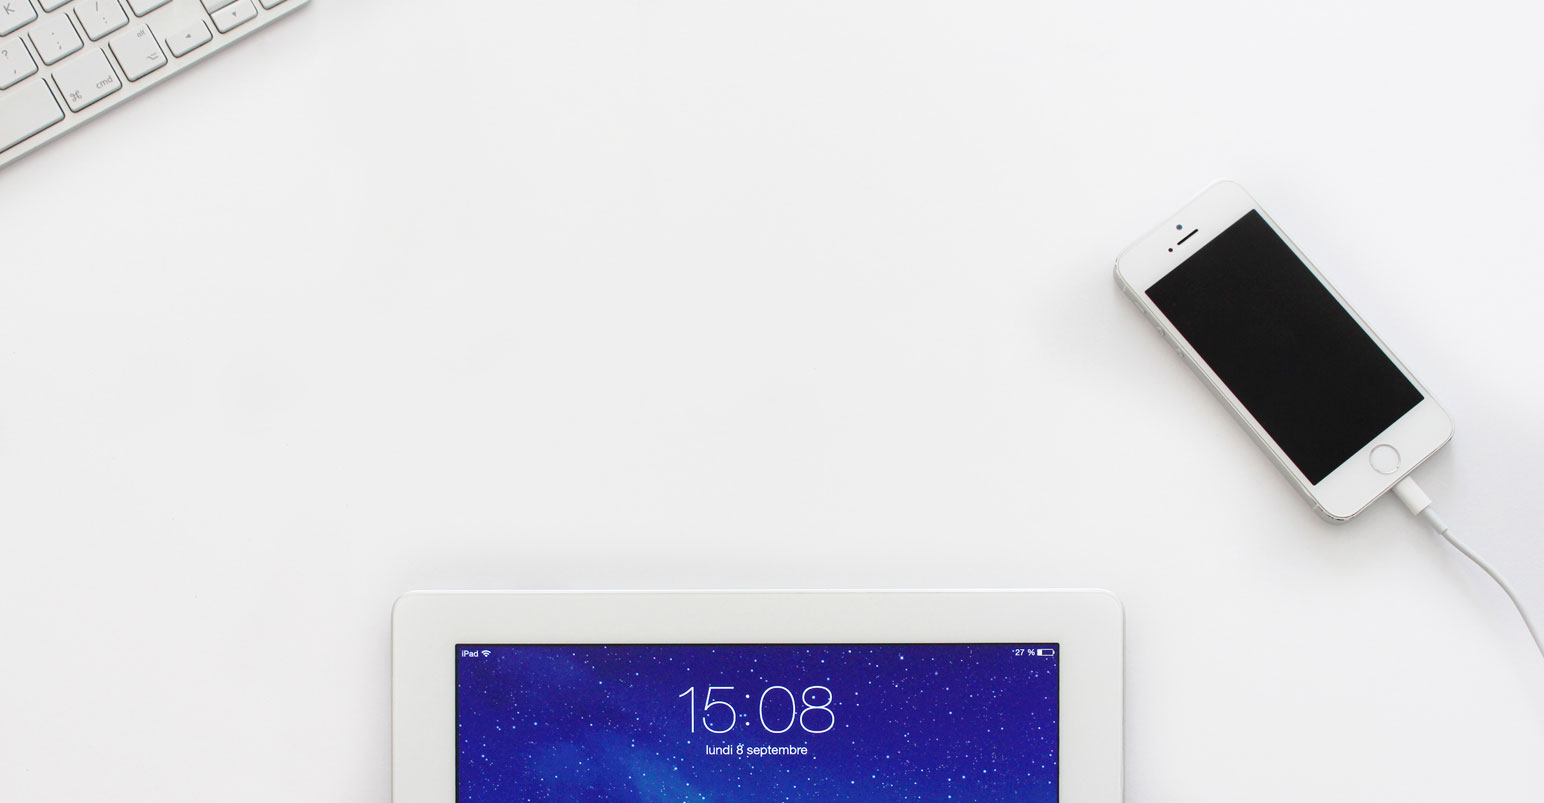
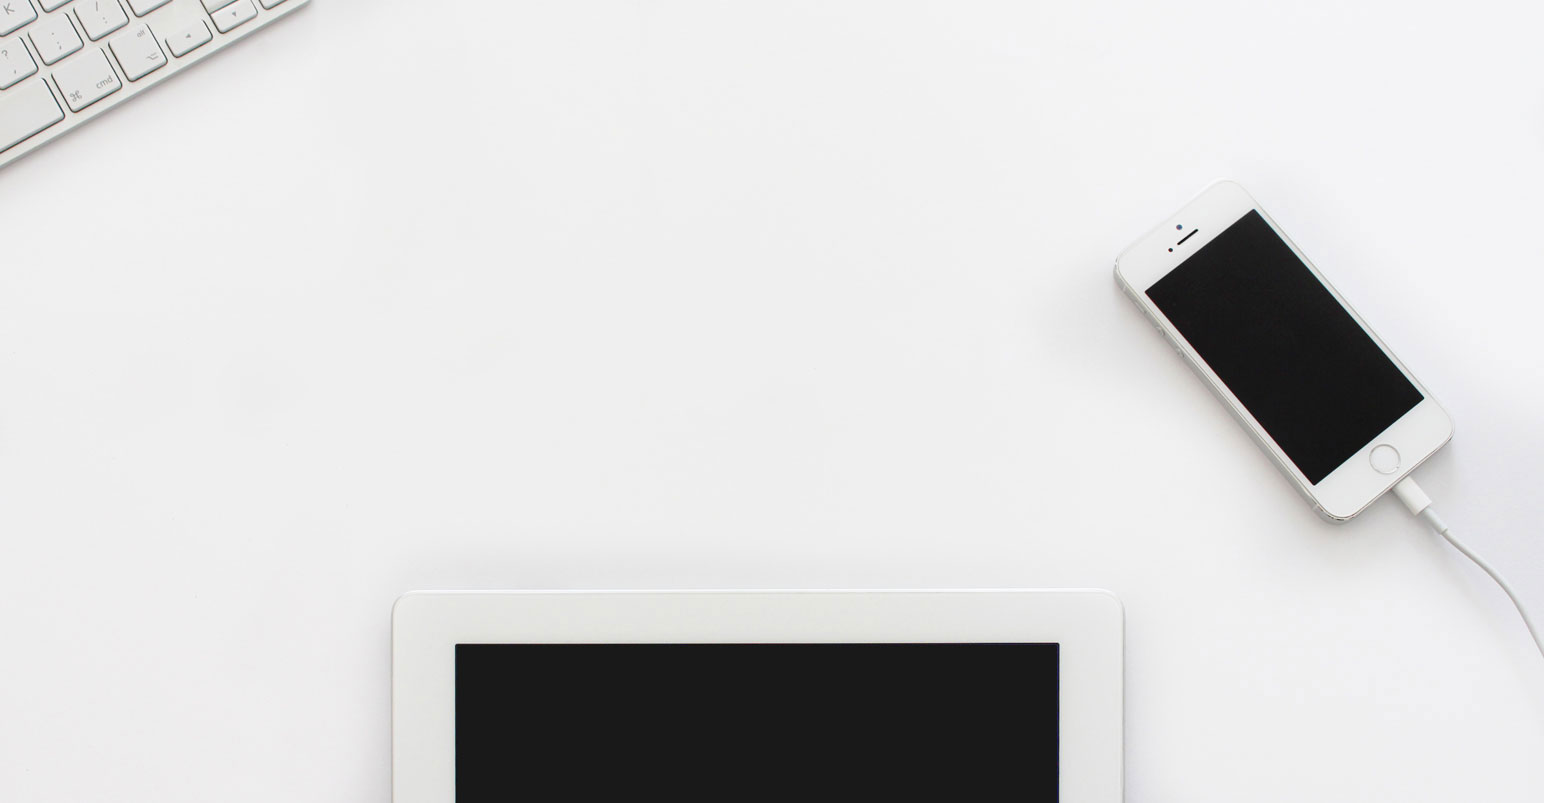
fix hero bg scaling on breakpoints
- moved hamburger to top right
- changed hero image

Changed region(s): [[0.2798, 0.7783, 0.6839, 1.0]]

diff --git a/css/style.css b/css/style.css
@@ -117,6 +117,7 @@ b, strong {
 
 h1 {
     font-family: 'Montserrat', sans-serif;
+    font: 700 68px/110% Montserrat;
     font-weight: bold;
     font-size: 40px;
     line-height: 130%;
@@ -250,7 +251,7 @@ p .bold:hover{
 
 button.et-rotate {
   position: absolute;
-  bottom: 15px;
+  top: 15px;
   right: 15px;
   z-index: 9999999;
   width: 40px;
@@ -267,6 +268,7 @@ button.et-rotate {
 	width: 100%;
 	height: 100%;
 	background: rgba(30,31,32,0.70);
+	padding-top: 60px;
 }
 
 
@@ -440,9 +442,9 @@ nav {
 
 
 #header {
-	background: linear-gradient(215deg, rgba(137,231,255,0.5) 0%,rgba(236,135,192,0.5) 100%), url('../img/mobile_hero.jpg') center center; /* Fall back */
+	background: linear-gradient(215deg, rgba(137,231,255,0.5) 0%,rgba(236,135,192,0.5) 100%), url('../img/homepage.jpg') center center; /* Fall back */
 	background-repeat: no-repeat;
-	background-size: 100%;
+	background-size: cover;
 	height: 75vh;
     position: relative;
 }
